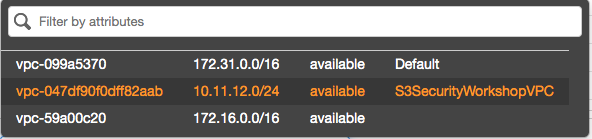
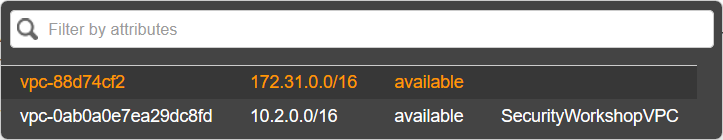
README

diff --git a/README.md b/README.md
@@ -423,12 +423,12 @@ Note - Versioning can not be disabled, but it can be suspended.  You suspend ver
 
 In this exercise we will configure a S3 VPC Endpoint and a bucket policy to limit access to only requests that pass through the VPC Endpoint.  This is an easy way to limit access to only clients in your VPC.
 
-1. In the AWS Console go to **VPC**.  
+1. In the AWS Console go to [VPC](https://console.aws.amazon.com/vpc/home?region=us-east-1#dashboard:).  
 2. Click **Endpoints**.  
 3. Click **Create Endpoint**.
 4. Select the **S3** service name.
 ![](/images/vpc_endpoint_1.png)
-5. Select the **SecurityWorkshopVPC** from the drop down menu.
+5. Select the **SecurityWorkshop** from the drop down menu.
 ![](/images/vpc_endpoint_2.png)
 6. Do not select any route tables for now.  
 ![](/images/vpc_endpoint_3.png)
@@ -476,10 +476,14 @@ In this exercise we will configure a S3 VPC Endpoint and a bucket policy to limi
 20. Click **Endpoints**.  
 21. The VPC Endpoint should be selected.  Select **Actions**, then click **Manage Route Tables**.
 22. Select the Route Table that is associated with **S3SecurityWorkshopSubnet**
+You may need to hover over the subnets in the "Associated With" column to find the appropriate networks.
+
 ![](/images/vpc_endpoint_7.png)
-23. Click **Modify Route Tables**.  
+23.  Click **Modify Route Tables**.  
     This will cause the hosts inside your VPC to route through the VPC gateway endpoint, inside your VPC to access S3.  The request will **not** have to travel across public Internet address space.
-24. Go to your SSH session, run the following command. The request should now succeed.  
+
+    This action changes the routing in your public subnets so that S3 traffic is routed to the S3 VPC endpoint, rather than out to the public Internet.
+24.  Go to your SSH session, run the following command. The request should now succeed.  
   
 ```bash
   aws s3api head-object --key app1/file1 --bucket ${bucket}
@@ -524,7 +528,14 @@ An alternate method is through the CLI.  Ask you partner to run the command
 
 Make a note of their account number, you will need it to generate the bucket policy.
 
-Navigate to your bucket in the S3 console. ( https://console.aws.amazon.com/s3/home?region=us-east-1 ).  Click on your bucketname to open the bucket you just created.  You may need to refresh the browser for the new bucket to be listed. Select the Permissions tab.
+4. Have your partner try to access your new AWS bucket.  It should fail, because they don't have access.
+
+```bash
+ aws s3 ls s3://daveaws-tmp123456
+```
+
+
+5. Navigate to your bucket in the S3 console. ( https://console.aws.amazon.com/s3/home?region=us-east-1 ).  Click on your bucketname to open the bucket you just created.  You may need to refresh the browser for the new bucket to be listed. Select the Permissions tab.
 
 <div align="center">
 
@@ -564,7 +575,9 @@ _Create ListBucket Element of policy_
 ListBucket
 **Amazon Resource Name:** _( note, edit this for the bucket you created. )
 _  
-arn:aws:s3:::YOUR-BUCKET-NAME
+arn:aws:s3:::YOUR-BUCKET-NAME/*
+
+The **"*"** at the end is important, this policy says allow the account to get **All** of the objects.
 
 When you’ve entered the data for your policy, click **Add Statement**.
 
@@ -609,7 +622,7 @@ Click **Generate Policy** and the generator creates your bucket policy JSON.
 
 Return to the prior S3 tab, where you were editing the bucket policy, and paste in the new policy, then click **Save**.
 
-3. Go to your partners account and verify that you can access the bucket.
+1. Go to your partners account and verify that you can access the bucket.
 
 ```bash
  bucket=YOUR_BUCKET_NAME
@@ -621,6 +634,8 @@ Return to the prior S3 tab, where you were editing the bucket policy, and paste 
 ```
 
 It is also possible to share just the contents of a single prefix with another account, using a Condition statement.  See this [blog post](https://aws.amazon.com/blogs/security/writing-iam-policies-grant-access-to-user-specific-folders-in-an-amazon-s3-bucket/) for more information on sharing just one folder.
+
+**You have successfully completed this S3 high-level security overview workshop.**  If you are using your own account, please remember to delete the lab resources.
 
 ## Clean Up Resources
 
